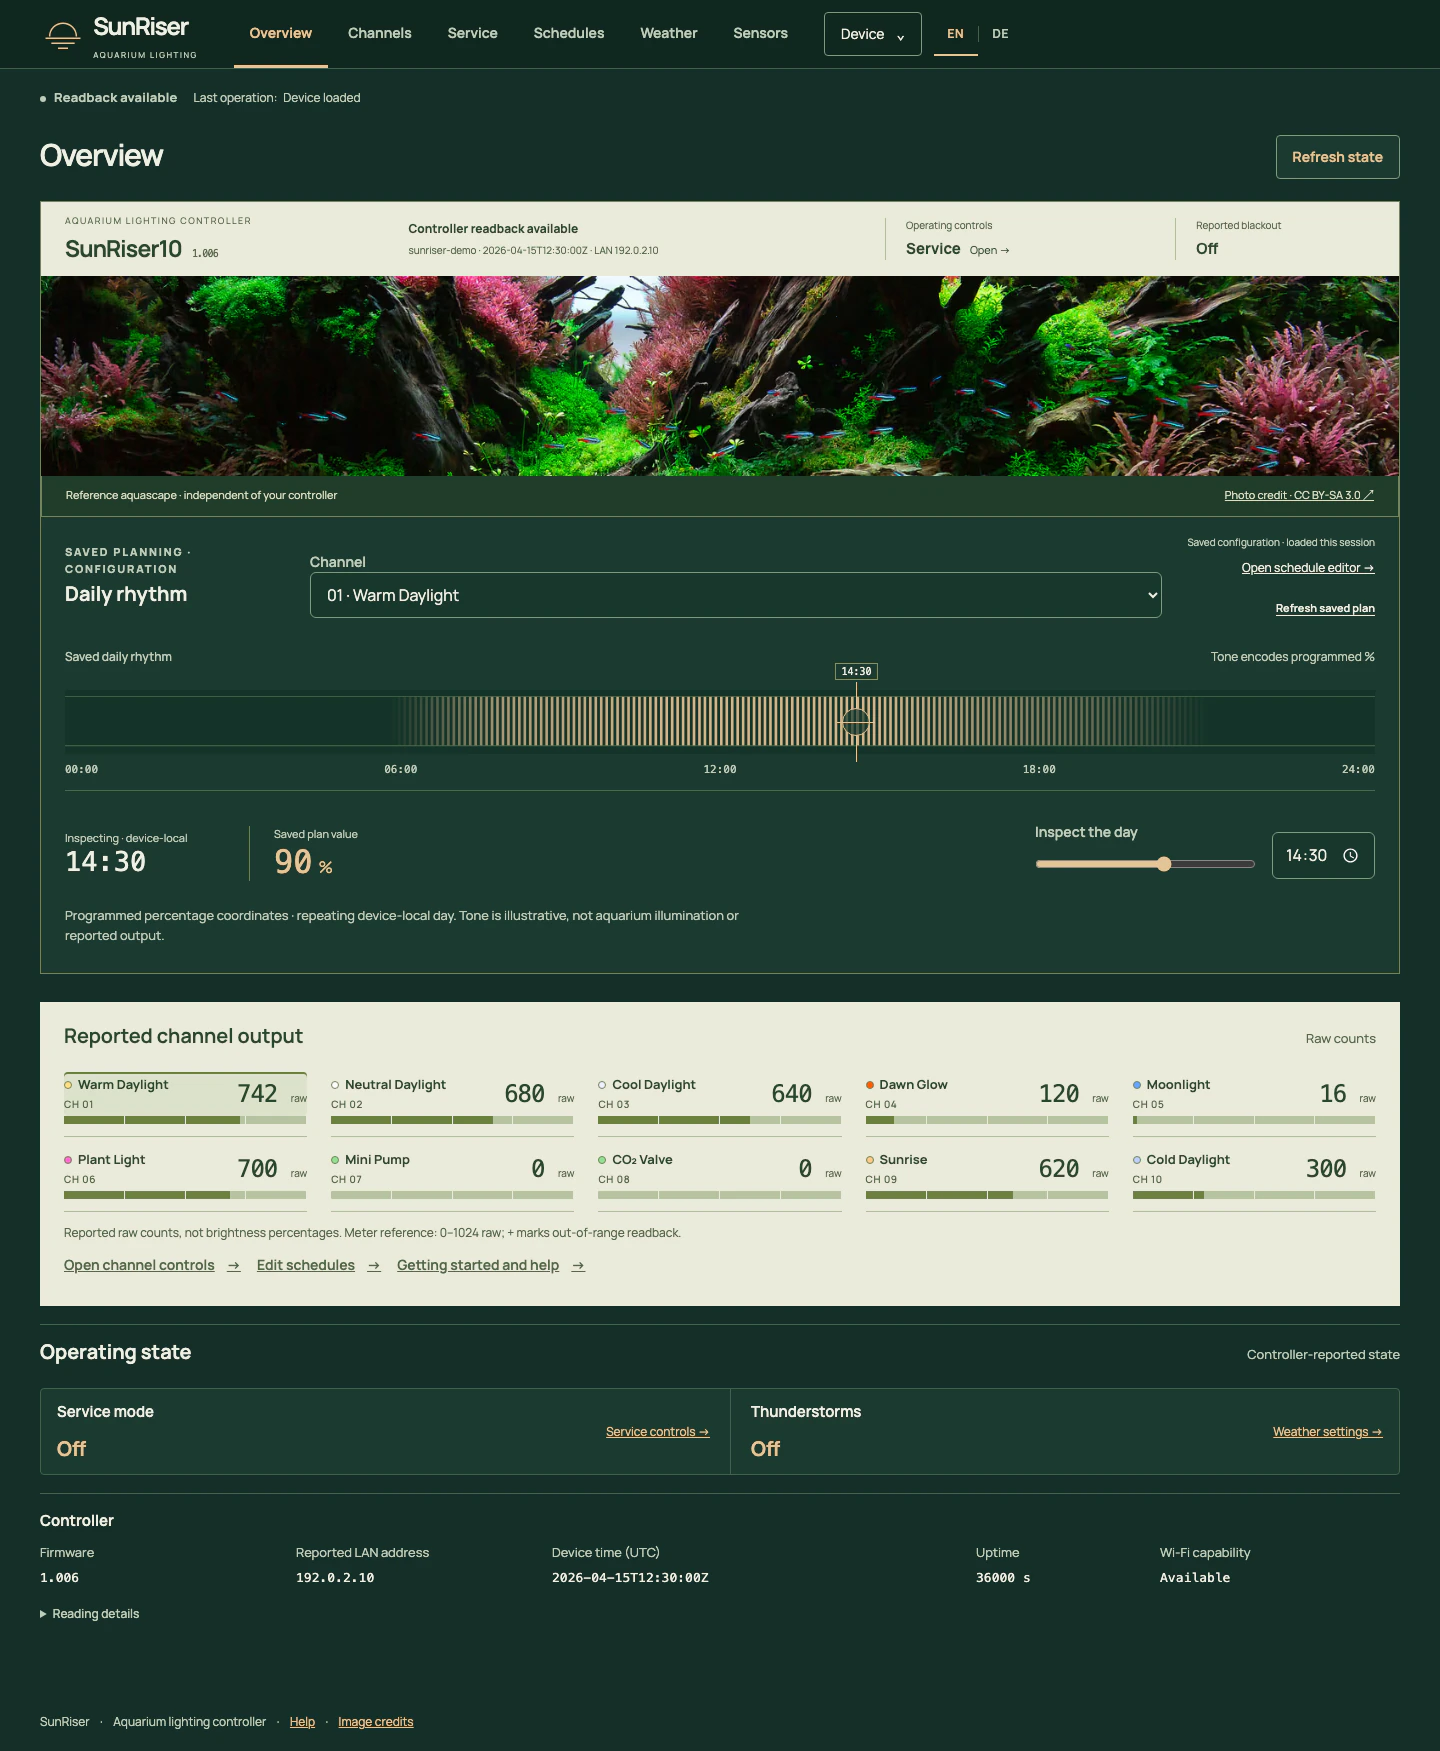
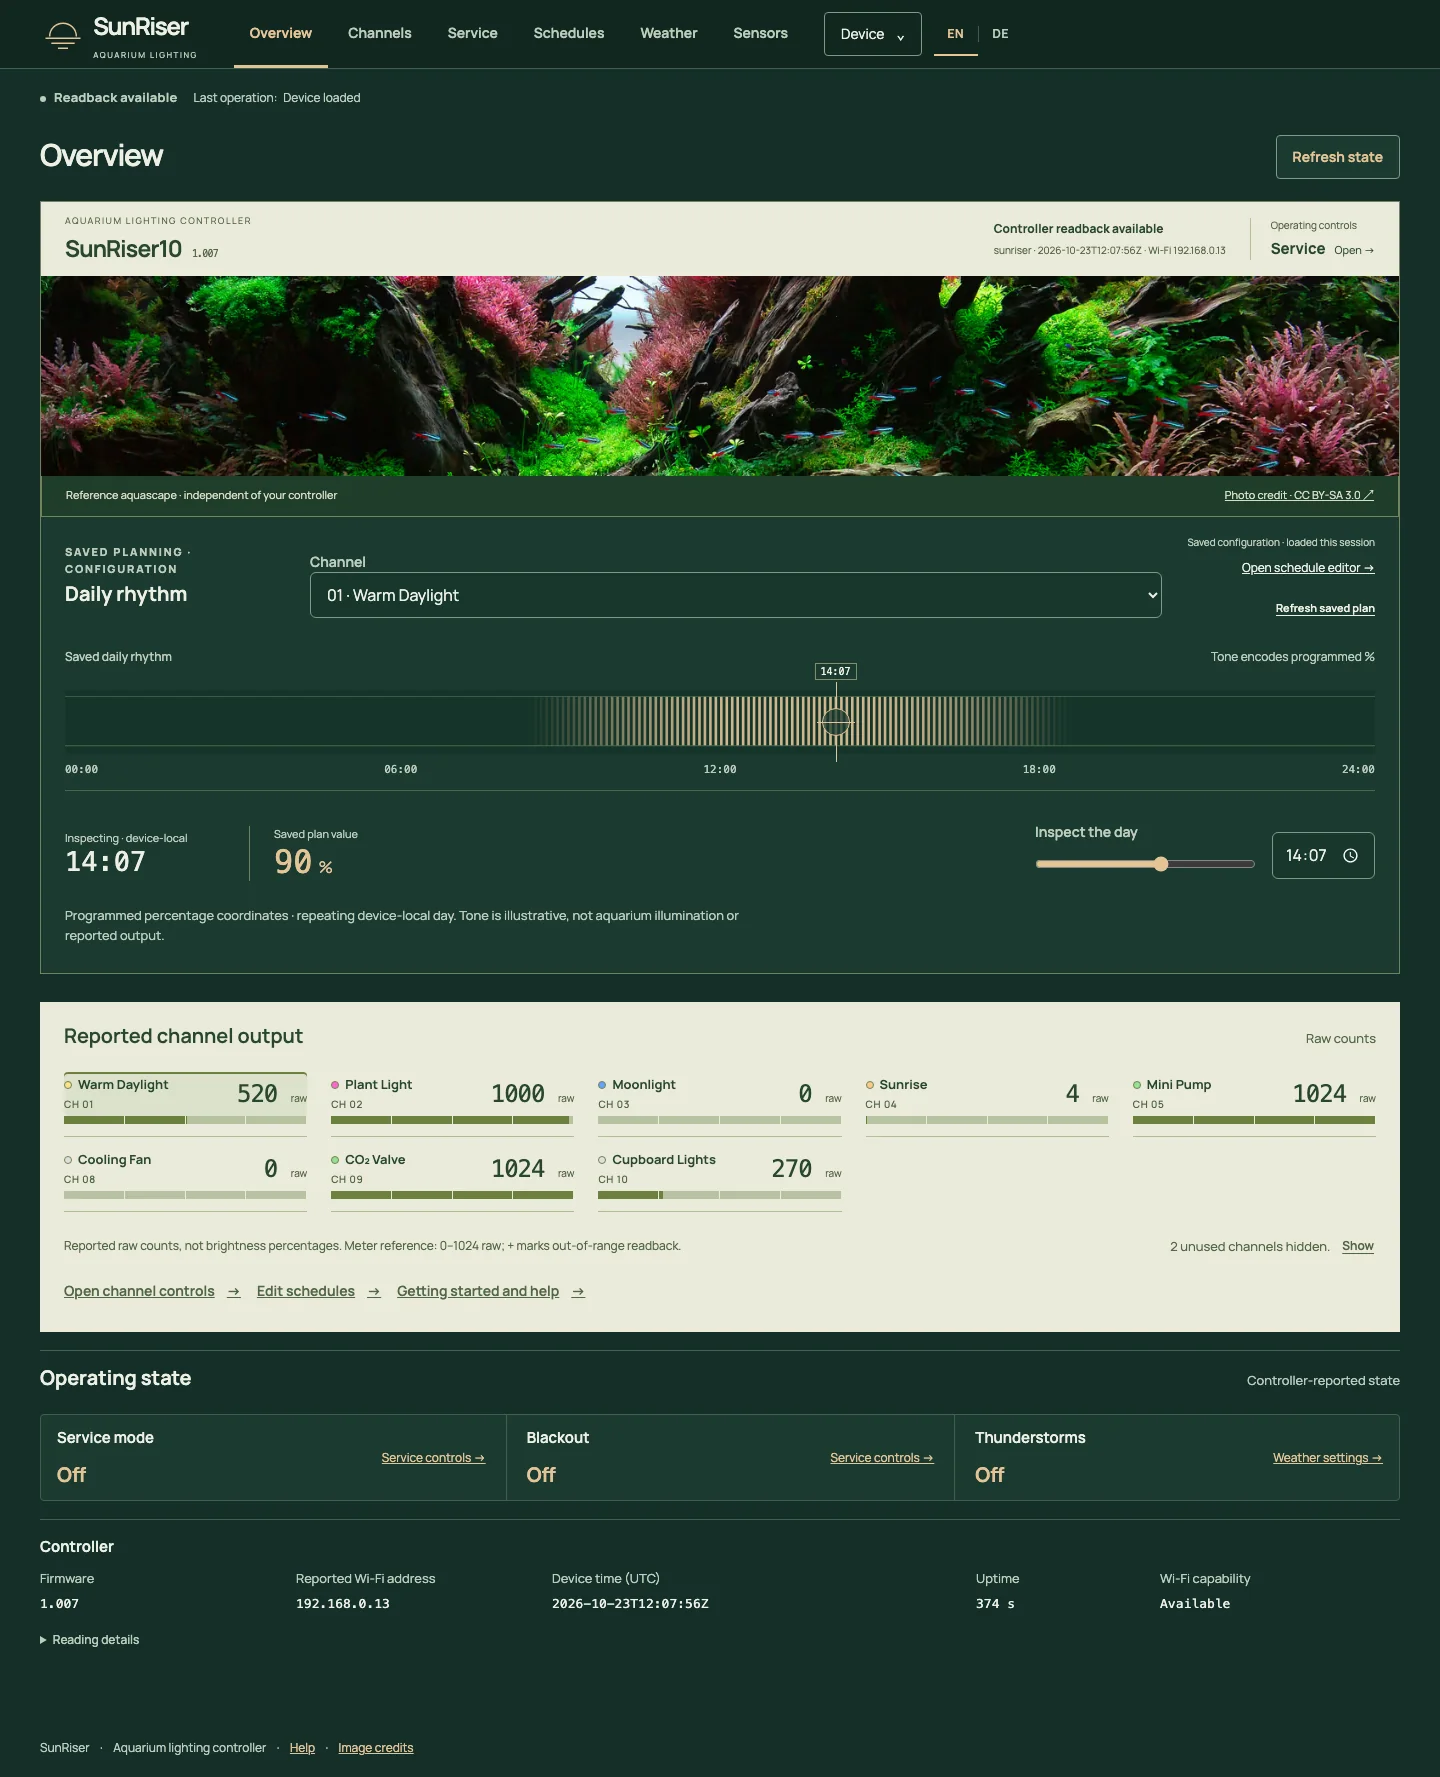
Refresh screenshots with captured SR10 readback

diff --git a/docs/screenshots/README.md b/docs/screenshots/README.md
@@ -1,10 +1,18 @@
 # Application screenshots
 
-Actual captures of the current Living Aquascape application, made on 21 October
-2026 with Chromium 156. All values come from a deterministic **simulated SR10**
-fixture using the v1.006 API model. `sunriser-demo`, `192.0.2.10`, sensor identities,
-temperatures, outputs and saved schedules are demonstration data, not a connected
-controller. The photograph is a reference aquascape, not a live view.
+Actual captures of the current Living Aquascape application (`c4759bf`), made on
+23 October 2026 with Chromium 156. Metadata, state and selected saved settings
+were read from `http://192.168.0.13`, which reported **SunRiser10, firmware 1.007**.
+The photograph is a reference aquascape, not a live view.
+
+Controller reads were serialized with at least five seconds between requests.
+No configuration changes or output commands were sent. The application was
+served locally and read responses were cached; German and mobile captures reused
+the cache without further controller requests. State readback is fixed at
+**12:07:56 UTC**
+(14:07:56 device-local time); saved settings were read separately afterward.
+These are locally rendered views of captured readback, not a live monitoring
+session or physical-output validation.
 
 Desktop captures use a 1440×1000 viewport and include the full page. Mobile
 captures use a 390×844 viewport; Schedules is scrolled to the curve and point editor.

diff --git a/README.md b/README.md
@@ -6,8 +6,9 @@ no separate backend, cloud account or remote assets are required by the frontend
 
 [![Living Aquascape Overview with reference photograph, saved Daily Rhythm and reported channel outputs](docs/screenshots/overview-desktop-en.webp)](docs/screenshots/overview-desktop-en.webp)
 
-*Current application, simulated SR10 data. The photograph is a reference aquascape,
-not a live view; the saved lighting rhythm is separate from reported output.*
+*Current application with SR10 readback (firmware 1.007), captured on 23 October
+2026. The photograph is a reference aquascape, not a live view; the saved lighting
+rhythm is separate from reported output.*
 
 ## Features
 
